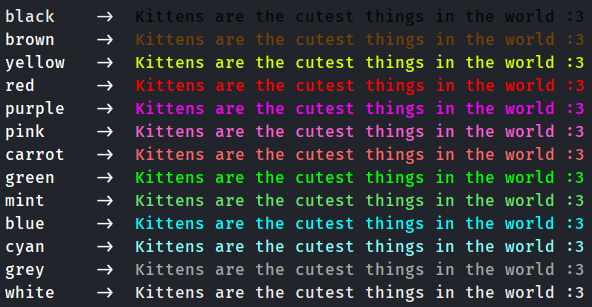
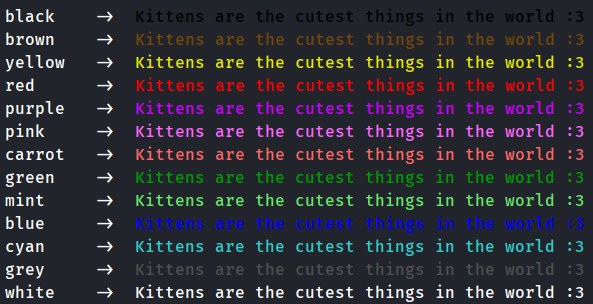
palette modified

diff --git a/terminal_colorizer/settings.py b/terminal_colorizer/settings.py
@@ -1,16 +1,16 @@
 palette = {'carrot': '\u001b[31m',
-           'mint': '\u001b[32m',
-           'brown': '\u001b[33m',
-           'grey': '\u001b[37m',
-           'purple': '\u001b[38;5;201m',
-           'white': '\u001b[38;5;255m',
-           'black': '\u001b[38;5;232m',
-           'yellow': '\u001b[38;5;190m',
-           'cyan': '\u001b[38;5;123m',
-           'green': '\u001b[38;5;46m',
-           'pink': '\u001b[38;5;206m',
-           'blue': '\u001b[38;5;51m',
-           'red': '\u001b[38;5;196m',
-           'RESET': '\u001b[0m', }
+                 'mint': '\u001b[32m',
+                 'brown': '\u001b[38;2;113;72;10m',
+                 'grey': '\u001b[38;2;80;80;80m',
+                 'purple': '\u001b[38;2;204;0;255m',
+                 'white': '\u001b[38;2;255;255;255m',
+                 'black': '\u001b[38;2;0;0;0m',
+                 'yellow': '\u001b[38;2;230;230;0m',
+                 'cyan': '\u001b[38;2;51;204;204m',
+                 'green': '\u001b[38;2;0;153;0m',
+                 'pink': '\u001b[38;2;255;102;255m',
+                 'blue': '\u001b[38;2;0;0;255m',
+                 'red': '\u001b[38;2;250;0;0m',
+                 'RESET': '\u001b[0m', }
 
 _turned_off = False
